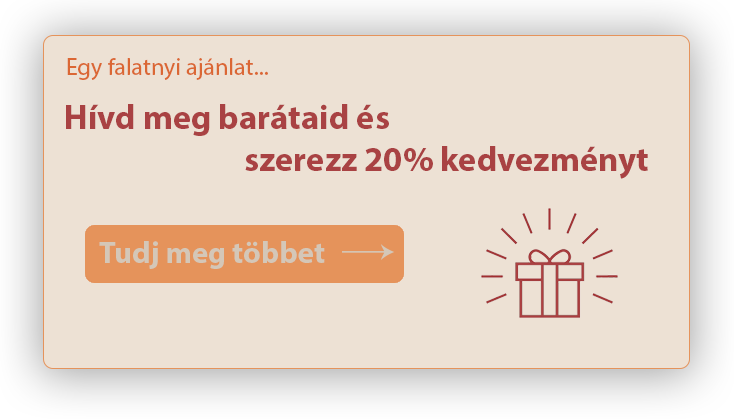
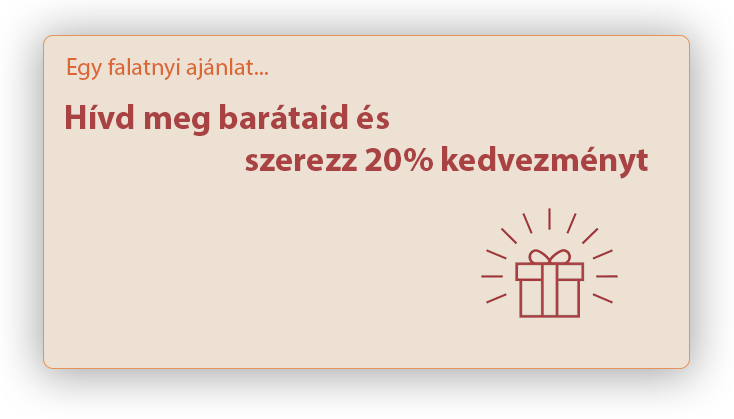
javitas tovabb

Changed region(s): [[0.0899, 0.5274, 0.5695, 0.6826]]

diff --git a/ujprojekt/public/css/styles.css b/ujprojekt/public/css/styles.css
@@ -20,7 +20,36 @@ i{
 *{
     font-family: 'Roboto Mono', monospace;
 }
+.container {
+    position: relative;
+    width: 30%;
+}
 
+/* Make the image responsive */
+.container img {
+    width: 60%;
+    height: auto;
+}
+
+/* Style the button and place it in the middle of the container/image */
+.container .btn {
+    position: absolute;
+    top: 70%;
+    left: 36%;
+    transform: translate(-50%, -50%);
+    -ms-transform: translate(-50%, -50%);
+    background-color: #f39f86!important;
+    color: white;
+    font-size: 16px;
+    padding: 12px 24px;
+    border: none;
+    cursor: pointer;
+    border-radius: 5px;
+}
+
+.container .btn:hover {
+    background-color: #e47c4c!important;
+}
 .cim{
     font-family: 'Abril Fatface', cursive;
     text-align: center;

diff --git a/ujprojekt/routes/route.js b/ujprojekt/routes/route.js
@@ -161,7 +161,7 @@ router.get("/dashboard", checkNotAuthenticated, async (req, res) => {
 
 router.get("/kereses", async (req,res) => {
 	let users=await new DAOuser().getUsersByPermission("r");
-	restaurants.sort((a,b)=>{
+	users.sort((a,b)=>{
 		if(a.id>b.id){
 			return -1;
 		}
